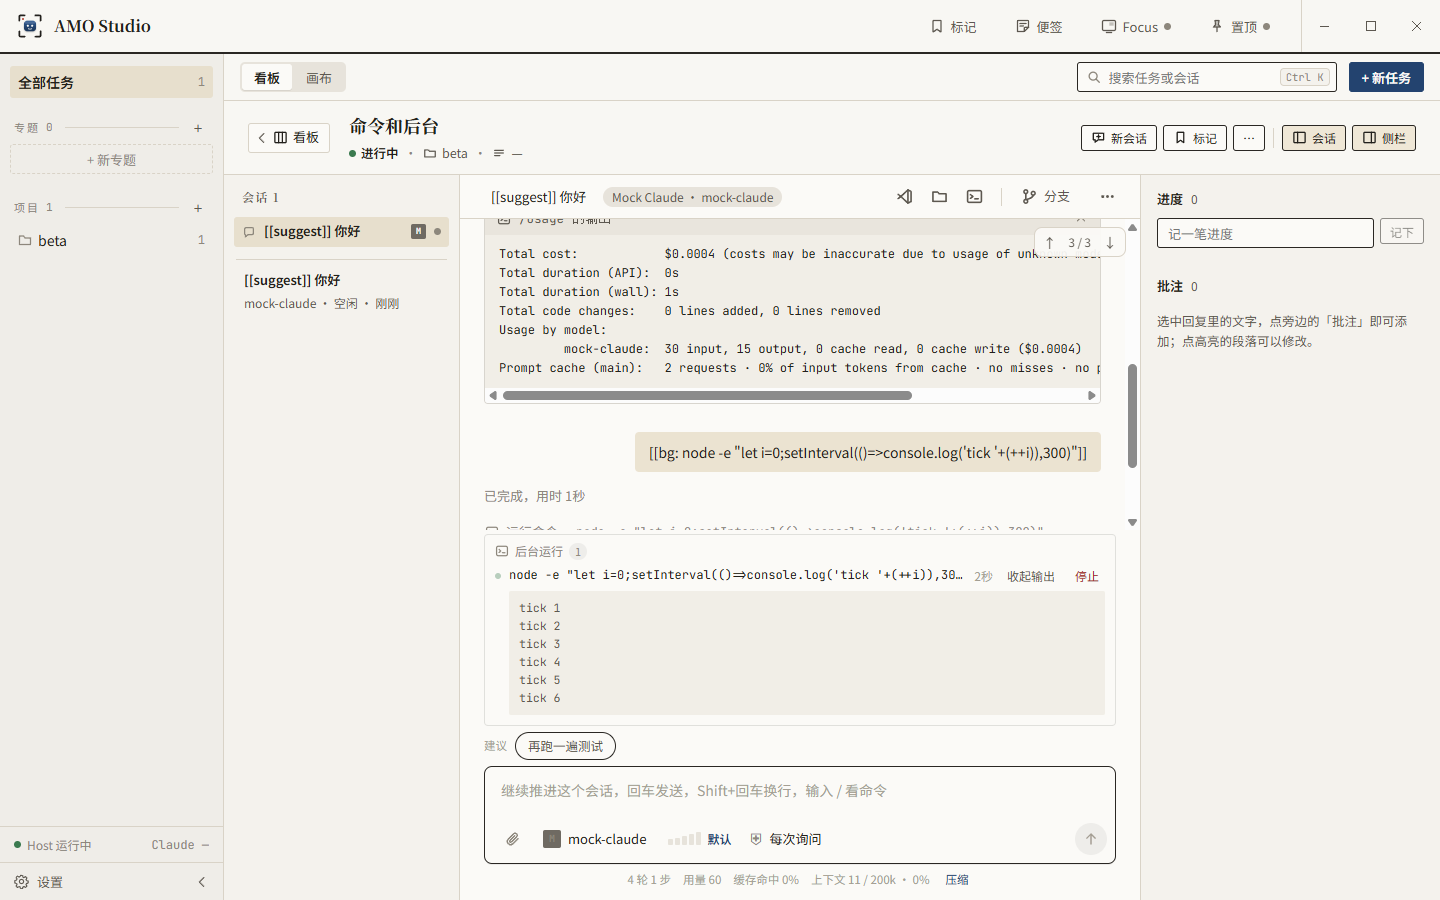
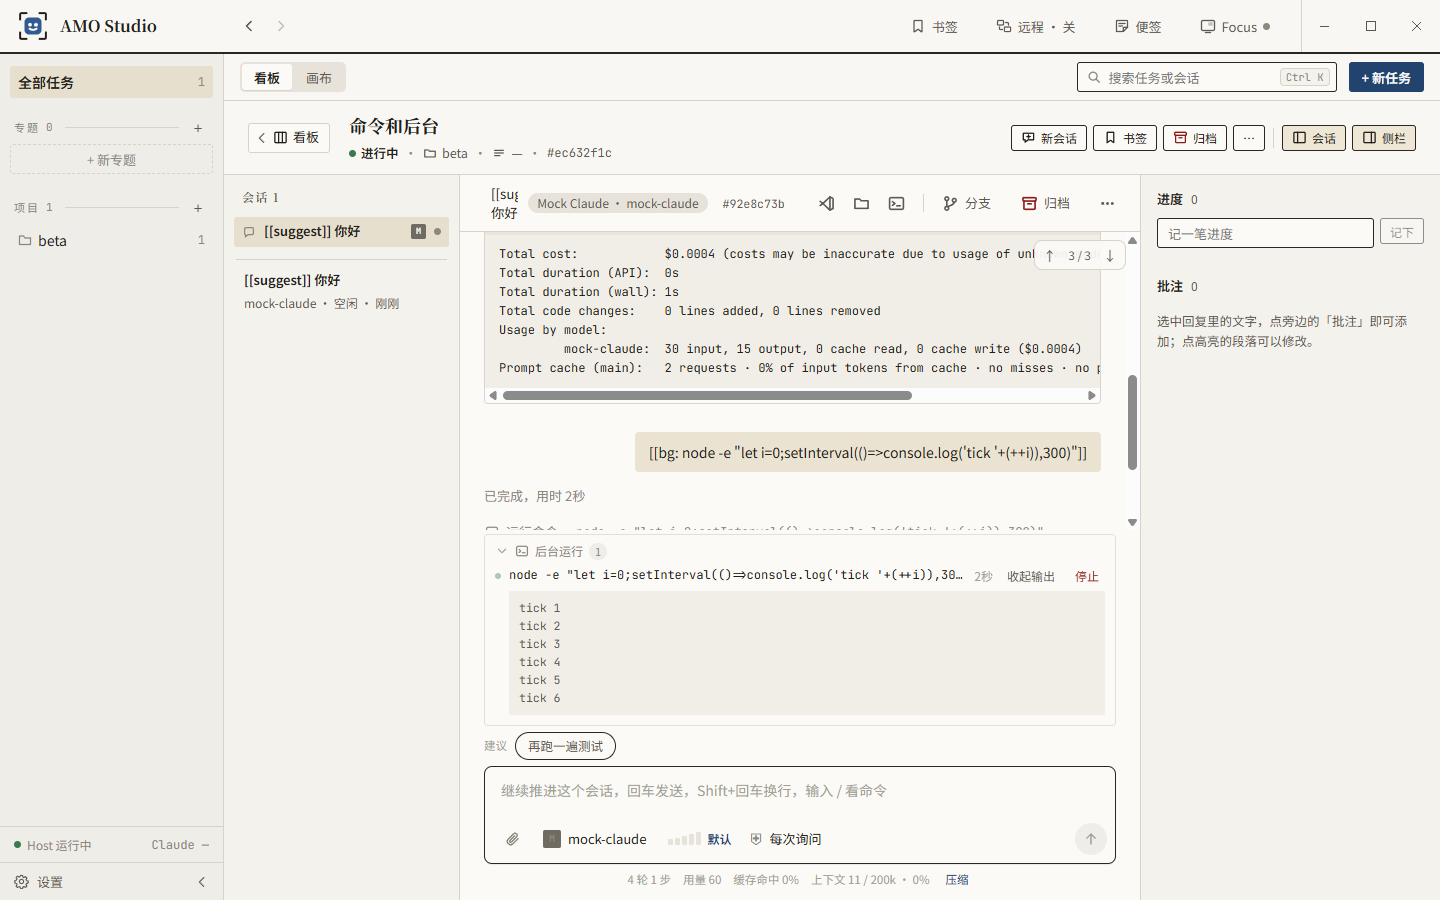
feat(ui): 「后台运行」 above the composer folds to one line — the head is a button, folded it says N 个在跑 · M 个已结束, remembered for every session (amo.backgroundTasksFolded); open, the list stops at min(34vh, 300px) and scrolls, so many background commands no longer cover the conversation; e2e folds and ope

diff --git a/studio/packages/ui/src/chat/cli/ComposerExtras.tsx b/studio/packages/ui/src/chat/cli/ComposerExtras.tsx
@@ -2,7 +2,7 @@ import { useEffect, useLayoutEffect, useMemo, useRef, useState } from "react";
 import type { BackgroundOutput, SessionItem } from "@amo-studio/protocol";
 import { call, HostApiError, type HostLink } from "../../host/client.js";
 import { formatDuration } from "../turns.js";
-import { IconTerminal, IconX } from "../icons.js";
+import { IconChevronDown, IconChevronRight, IconTerminal, IconX } from "../icons.js";
 
 // Above the composer (stage 12, S12-E): the commands the agent left running in the background, and the next message
 // Claude suggests after a reply.
@@ -32,28 +32,61 @@ export function BackgroundTasks({ link, sessionId, items, readOnly, onError }: {
     const t = setInterval(() => setNow(Date.now()), 1000);
     return () => clearInterval(t);
   }, [list.length]);
+  const [folded, setFolded] = useState(readFolded);
   if (!list.length) return null;
+  const runningCount = list.filter((b) => b.state === "running").length;
+  const endedCount = list.length - runningCount;
+  const toggle = () =>
+    setFolded((v) => {
+      try {
+        localStorage.setItem(FOLD_KEY, v ? "0" : "1");
+      } catch {
+        // per-viewer convenience only
+      }
+      return !v;
+    });
   return (
-    <div className="bg-tasks" data-testid="background-tasks" aria-label="后台运行">
-      <div className="bg-tasks-head">
+    <div className={`bg-tasks${folded ? " folded" : ""}`} data-testid="background-tasks" aria-label="后台运行">
+      <button type="button" className="bg-tasks-head" aria-expanded={!folded} title={folded ? "展开后台运行" : "折叠后台运行"} onClick={toggle} data-testid="background-tasks-toggle">
+        <span className="bg-tasks-chevron" aria-hidden="true">{folded ? <IconChevronRight /> : <IconChevronDown />}</span>
         <IconTerminal />
         <span>后台运行</span>
-        {running && <span className="bg-tasks-count">{list.filter((b) => b.state === "running").length}</span>}
-      </div>
-      {list.map((b) => (
-        <BackgroundRow
-          key={b.id}
-          link={link}
-          sessionId={sessionId}
-          item={b}
-          now={now}
-          readOnly={readOnly}
-          onError={onError}
-          onDismiss={() => setDismissed((cur) => new Set(cur).add(b.id))}
-        />
-      ))}
+        {running && !folded && <span className="bg-tasks-count">{runningCount}</span>}
+        {folded && (
+          <span className="bg-tasks-summary">
+            {[runningCount ? `${runningCount} 个在跑` : "", endedCount ? `${endedCount} 个已结束` : ""].filter(Boolean).join(" · ")}
+          </span>
+        )}
+      </button>
+      {!folded && (
+        <div className="bg-tasks-list">
+          {list.map((b) => (
+            <BackgroundRow
+              key={b.id}
+              link={link}
+              sessionId={sessionId}
+              item={b}
+              now={now}
+              readOnly={readOnly}
+              onError={onError}
+              onDismiss={() => setDismissed((cur) => new Set(cur).add(b.id))}
+            />
+          ))}
+        </div>
+      )}
     </div>
   );
+}
+
+// 2026-11-02 问题 #12: with many background commands the list covered the conversation; it folds to one line now,
+// remembered for every session (the person folds it because it is in the way, not for one session).
+const FOLD_KEY = "amo.backgroundTasksFolded";
+function readFolded(): boolean {
+  try {
+    return localStorage.getItem(FOLD_KEY) === "1";
+  } catch {
+    return false;
+  }
 }
 
 function BackgroundRow({

diff --git a/studio/packages/ui/src/chat/cli/cli.css b/studio/packages/ui/src/chat/cli/cli.css
@@ -48,7 +48,12 @@
 /* ---- above the composer: background commands, suggestions ------------------------------------------------------ */
 
 .bg-tasks { width: 100%; max-width: var(--chat-width); display: flex; flex-direction: column; gap: 2px; padding: 6px 10px; border: 1px solid var(--chat-hairline); border-radius: var(--r-l); background: var(--chat-panel); }
-.bg-tasks-head { display: flex; align-items: center; gap: 6px; font-size: 12px; color: var(--chat-dim); }
+.bg-tasks-head { display: flex; align-items: center; gap: 6px; width: 100%; margin: 0; padding: 0; border: 0; background: none; font: inherit; font-size: 12px; color: var(--chat-dim); text-align: left; cursor: pointer; }
+.bg-tasks-head:hover { color: var(--chat-dim-hover); }
+.bg-tasks-chevron { display: inline-flex; flex: none; color: var(--chat-caption); }
+.bg-tasks-summary { min-width: 0; overflow: hidden; text-overflow: ellipsis; white-space: nowrap; color: var(--chat-caption); font-variant-numeric: tabular-nums; }
+/* 问题 #12: open, the list still stops at about a third of the window and scrolls, so it never covers the conversation. */
+.bg-tasks-list { display: flex; flex-direction: column; gap: 2px; max-height: min(34vh, 300px); overflow-y: auto; }
 .bg-tasks-count { padding: 0 6px; border-radius: 999px; background: var(--chat-hover); font-size: 11px; line-height: 17px; font-variant-numeric: tabular-nums; }
 .bg-task { display: flex; flex-direction: column; min-width: 0; }
 .bg-task-row { display: flex; align-items: center; gap: 8px; min-width: 0; height: 26px; }

diff --git a/studio/e2e/studio/cli.spec.ts b/studio/e2e/studio/cli.spec.ts
@@ -153,6 +153,14 @@ test("Claude: commands, a background command, retries, notices, images and sugge
   await expect(page.getByTestId("background-output")).toContainText("tick 2", { timeout: 30_000 });
   await idle(page);
   await screenshot(app, "stage-12", "S12-E-background", page);
+  // 问题 #12: the list folds to one line (with how many run) so it does not cover the conversation, and opens again.
+  const bgToggle = page.getByTestId("background-tasks-toggle");
+  await bgToggle.click();
+  await expect(bg).toHaveCount(0);
+  await expect(bgToggle).toContainText("1 个在跑");
+  await screenshot(app, "stage-12", "S12-E-background-folded", page);
+  await bgToggle.click();
+  await expect(bg).toHaveAttribute("data-state", "running");
   await bg.getByRole("button", { name: "停止" }).click();
   await expect(bg).toHaveAttribute("data-state", "stopped", { timeout: 30_000 });
   await expect(bg).toContainText("已停止");

diff --git a/studio/packages/app/CHANGELOG.md b/studio/packages/app/CHANGELOG.md
@@ -4,6 +4,7 @@
 
 ## 下一版
 
+- 会话输入框上方的「后台运行」可以折叠了：点它的标题收成一行，只写「N 个在跑 · M 个已结束」，再点展开。折叠是记住的，换会话、重开 Studio 都保持。展开时列表最多占窗口约三分之一高，命令多了在里面滚动，不再把对话挡住。
 - 待办可以绑定任务和会话：任务页右上角的 ⋯、会话标题栏的 ⋯ 里多了「绑定到待办…」，点了弹出便签待办里还没做完的条目（按本机、共通、其他设备分组，可以搜索），点一条就绑定到这个任务或会话；已经绑在这里的可以「解除绑定」。绑好后，便签待办里那一条后面会多一个标签，点它 Studio 就到前面并打开这个任务或会话；任务改了名，标签跟着改；任务已经不在了，标签变灰。绑定只记在这台电脑上，别的设备上看到的还是普通待办。待办里没有条目、没登录或关着待办时，点了会说明原因。
 - 设置里多了一页「测试功能」，放还在试的新功能，默认都关着。第一个是「全景」：打开后顶栏「画布」后面多一个「全景」选项卡，把专题里的任务画成一张倾斜视角的图（冰白全息的样子）：每个任务是从起点长向终点的一棵树，每个主会话是主干上的一轮（「第 N 轮」），分支会话和别的会话开出来的会话从开它的那一轮岔出去；终点在前方，任务有清单时没勾的步骤越多终点越远，「待审阅」列的终点亮一半，「完成」列路接上终点；正在跑的会话有光点流过去；画布上的依赖画成任务之间的弧线。拉远看每个任务的起点、主干和终点，拉近看每一轮和分叉；在等你批准、回答、审阅的会话立着牌子，右上角「N 件等你」点一下飞到一件，再点下一件；点节点弹出小窗口，「打开任务」跳到那个会话。看范围里的专题，没选专题就看第一个。只读，不改任何数据；电脑上 WebGL 起不来时改成列表。还在测试，样子和内容以后会变；关掉开关选项卡就没了。
 - 远程：任务授权给另一台电脑、它在线时，跑任务的这台电脑的 Focus 不再在「进行中」里列这个任务（顶上的「运行中」也不算它），和提醒、完成待审核一样只在发起的那台电脑上出现。想两边都看到，在任务页的「已授权」横条上勾「我也关心」，这台电脑的 Focus 就照常显示它；默认不勾。
